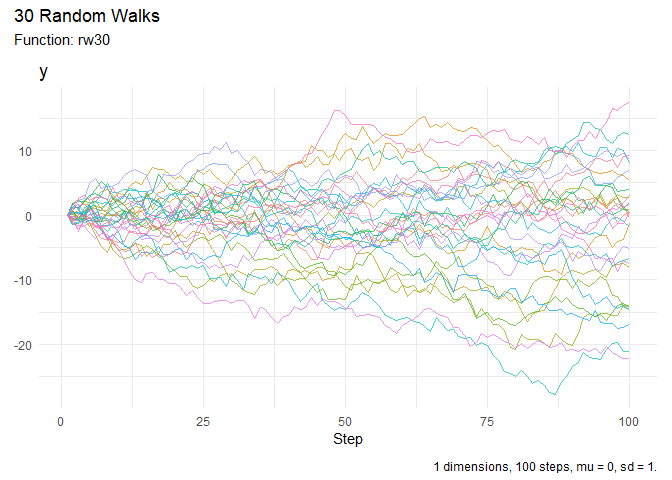
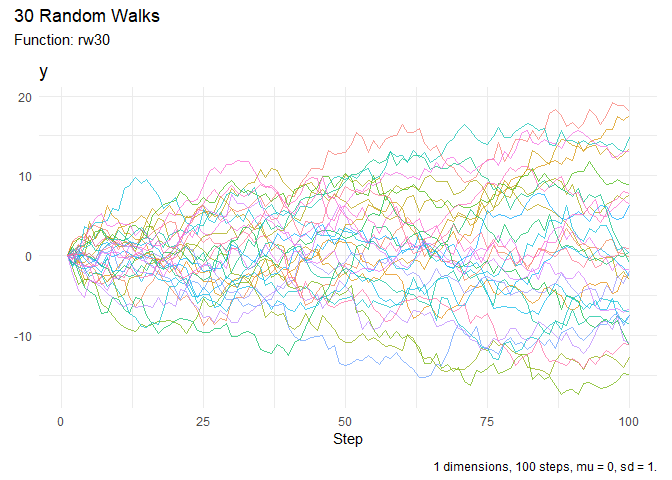
update README

diff --git a/README.md b/README.md
@@ -45,18 +45,18 @@ library(RandomWalker)
 rw30() |>
   head(10)
 #> # A tibble: 10 × 3
-#>    walk_number step_number        y
-#>    <fct>             <int>    <dbl>
-#>  1 1                     1  0      
-#>  2 1                     2 -0.644  
-#>  3 1                     3 -0.619  
-#>  4 1                     4  0.209  
-#>  5 1                     5  0.885  
-#>  6 1                     6 -0.00949
-#>  7 1                     7  0.339  
-#>  8 1                     8 -0.763  
-#>  9 1                     9 -2.33   
-#> 10 1                    10 -1.10
+#>    walk_number step_number      y
+#>    <fct>             <int>  <dbl>
+#>  1 1                     1  0    
+#>  2 1                     2 -0.341
+#>  3 1                     3 -0.655
+#>  4 1                     4 -2.98 
+#>  5 1                     5 -3.09 
+#>  6 1                     6 -0.585
+#>  7 1                     7 -1.64 
+#>  8 1                     8 -2.69 
+#>  9 1                     9 -1.96 
+#> 10 1                    10 -2.55
 ```
 
 Here is a basic visualization of a Random Walk:
@@ -76,25 +76,25 @@ rw30() |>
 #> # A tibble: 1 × 16
 #>   fns   fns_name dimensions mean_val median range quantile_lo quantile_hi
 #>   <chr> <chr>         <dbl>    <dbl>  <dbl> <dbl>       <dbl>       <dbl>
-#> 1 rw30  Rw30              1   -0.189      0  36.5       -12.5        11.8
+#> 1 rw30  Rw30              1    0.255  0.313  44.2       -11.9        12.1
 #> # ℹ 8 more variables: variance <dbl>, sd <dbl>, min_val <dbl>, max_val <dbl>,
 #> #   harmonic_mean <dbl>, geometric_mean <dbl>, skewness <dbl>, kurtosis <dbl>
 
 rw30() |>
   summarize_walks(.value = y, .group_var = walk_number)
 #> # A tibble: 30 × 17
-#>    walk_number fns   fns_name dimensions mean_val  median range quantile_lo
-#>    <fct>       <chr> <chr>         <dbl>    <dbl>   <dbl> <dbl>       <dbl>
-#>  1 1           rw30  Rw30              1  -3.25   -4.14   17.2       -8.78 
-#>  2 2           rw30  Rw30              1  -1.85   -0.0795 18.6      -14.5  
-#>  3 3           rw30  Rw30              1   8.01    7.73   16.4        0.408
-#>  4 4           rw30  Rw30              1  -1.68   -1.53   12.1       -6.82 
-#>  5 5           rw30  Rw30              1  -0.0203 -0.472  11.7       -3.46 
-#>  6 6           rw30  Rw30              1  -1.25   -0.268  19.8      -12.7  
-#>  7 7           rw30  Rw30              1  -6.32   -6.51   18.3      -15.3  
-#>  8 8           rw30  Rw30              1  -6.37   -8.92   15.2      -13.3  
-#>  9 9           rw30  Rw30              1   0.327   0.0489  9.36      -2.55 
-#> 10 10          rw30  Rw30              1  -1.63    1.68   25.6      -16.1  
+#>    walk_number fns   fns_name dimensions mean_val median range quantile_lo
+#>    <fct>       <chr> <chr>         <dbl>    <dbl>  <dbl> <dbl>       <dbl>
+#>  1 1           rw30  Rw30              1    0.177  1.41  15.1       -7.39 
+#>  2 2           rw30  Rw30              1   -3.40  -3.92  15.5       -8.98 
+#>  3 3           rw30  Rw30              1    0.427  0.259  7.61      -2.65 
+#>  4 4           rw30  Rw30              1   14.7   18.1   26.5        0.438
+#>  5 5           rw30  Rw30              1    1.25   1.45   9.72      -2.98 
+#>  6 6           rw30  Rw30              1    3.08   2.43  12.6       -2.58 
+#>  7 7           rw30  Rw30              1   -3.69  -4.08  11.4       -8.96 
+#>  8 8           rw30  Rw30              1   -1.81  -1.51   7.36      -5.63 
+#>  9 9           rw30  Rw30              1   -5.18  -5.33   9.68      -8.86 
+#> 10 10          rw30  Rw30              1    3.95   4.53  14.3       -2.37 
 #> # ℹ 20 more rows
 #> # ℹ 9 more variables: quantile_hi <dbl>, variance <dbl>, sd <dbl>,
 #> #   min_val <dbl>, max_val <dbl>, harmonic_mean <dbl>, geometric_mean <dbl>,
